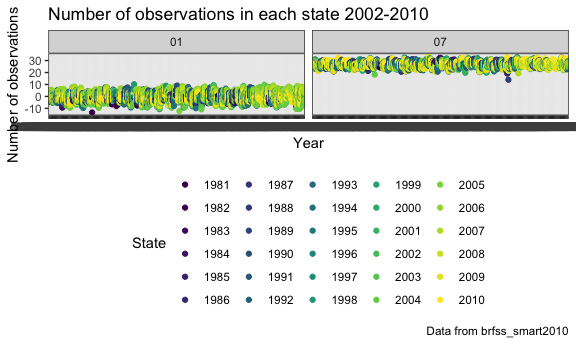
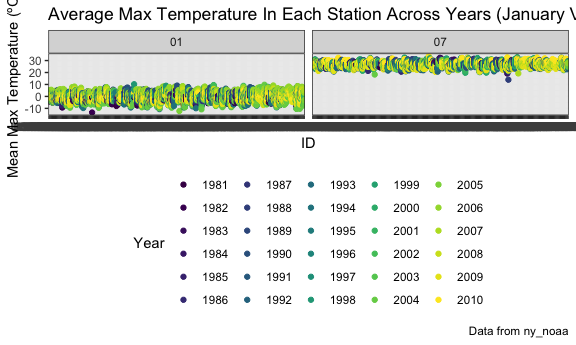
Modify Q3 question 2

diff --git a/p8105_hw3_bs3142.md b/p8105_hw3_bs3142.md
@@ -301,13 +301,13 @@ tidy_noaa %>%
     geom_point() +
     facet_grid(~month) +
     labs(
-      title = "Number of observations in each state 2002-2010",
-      x = "Year",
-      y = "Number of observations",
-      caption = "Data from brfss_smart2010"
+      title = "Average Max Temperature In Each Station Across Years (January VS. July)",
+      x = "ID",
+      y = "Mean Max Temperature (ºC)",
+      caption = "Data from ny_noaa"
   ) +
   viridis::scale_color_viridis(
-    name = "State", 
+    name = "Year", 
     discrete = TRUE
   )
 ```
